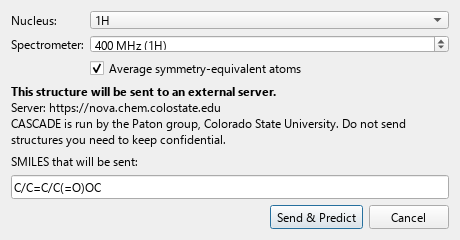
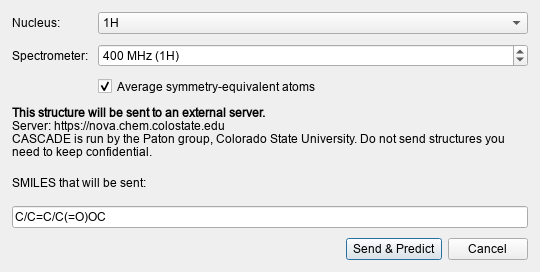
Polish CASCADE result dialogs and refresh screenshots for 2.0.3
Assisted-by: GPT-6.1 Sol

diff --git a/nmr_predictor_cascade/result_dialog.py b/nmr_predictor_cascade/result_dialog.py
@@ -90,7 +90,7 @@ class ResultDialog(QDialog):
         self.result_info = result_data
 
         self.setWindowTitle(f"CASCADE NMR Prediction ({self.nucleus})")
-        self.resize(680, 840)
+        self.resize(940, 880)
         self.setWindowModality(Qt.WindowModality.NonModal)
 
         self._highlight_names = []
@@ -102,15 +102,24 @@ class ResultDialog(QDialog):
 
         layout = QVBoxLayout()
         self.setLayout(layout)
+        layout.setContentsMargins(12, 12, 12, 12)
+        layout.setSpacing(8)
+        summary = f"{self.nucleus} · {len(self.data)} nuclei predicted"
+        n_conformers = result_data.get("n_conformers")
+        if n_conformers:
+            summary += f" · {n_conformers} conformer(s)"
+        summary_label = QLabel(summary)
+        summary_label.setWordWrap(True)
+        layout.addWidget(summary_label)
 
         # -- spectrum ------------------------------------------------------
         self.figure = Figure(figsize=(5, 3.5))
-        self.figure.subplots_adjust(left=0.1, right=0.95, top=0.9, bottom=0.15)
         self.canvas = FigureCanvas(self.figure)
+        self.canvas.setMinimumHeight(240)
         self.toolbar = NavigationToolbar2QT(self.canvas, self)
 
-        title = QLabel("Graph Controls")
-        title.setStyleSheet("font-weight: bold; color: #555;")
+        title = QLabel("Spectrum")
+        title.setStyleSheet("font-weight: bold;")
 
         range_row = QHBoxLayout()
         range_row.addWidget(QLabel("Range (ppm):"))
@@ -164,7 +173,7 @@ class ResultDialog(QDialog):
         layout.addLayout(range_row)
         layout.addLayout(mult_row)
         layout.addLayout(broad_row)
-        layout.addWidget(self.canvas)
+        layout.addWidget(self.canvas, 3)
 
         # -- table ---------------------------------------------------------
         headers = columns_for(self.nucleus)
@@ -174,8 +183,11 @@ class ResultDialog(QDialog):
         self.table.horizontalHeader().setSectionResizeMode(QHeaderView.ResizeMode.Stretch)
         self.table.setSelectionBehavior(QTableWidget.SelectionBehavior.SelectRows)
         self.table.setEditTriggers(QTableWidget.EditTrigger.NoEditTriggers)
-        self.table.setStyleSheet(
-            "QTableWidget::item:selected { background-color: pink; color: black; }"
+        self.table.setAlternatingRowColors(True)
+        self.table.verticalHeader().setDefaultSectionSize(24)
+        self.table.setMinimumHeight(150)
+        self.table.setToolTip(
+            "Confidence is reported by CASCADE; it is not a numerical error bound."
         )
         self.table.setRowCount(len(self.data))
         for row, item in enumerate(self.data):
@@ -186,11 +198,14 @@ class ResultDialog(QDialog):
                     align = Qt.AlignmentFlag.AlignRight | Qt.AlignmentFlag.AlignVCenter
                 cell.setTextAlignment(align)
                 self.table.setItem(row, col, cell)
-        layout.addWidget(self.table)
+        layout.addWidget(self.table, 2)
 
         note = QLabel(
-            "Couplings are rule-based estimates (typical values and a Karplus curve), "
-            "not part of the CASCADE prediction."
+            "Shifts: CASCADE. Couplings: local estimates."
+        )
+        note.setToolTip(
+            "Couplings use typical values and a Karplus curve; "
+            "they are not part of the CASCADE shift prediction."
         )
         note.setWordWrap(True)
         note.setStyleSheet("color: gray; font-size: 10px;")
@@ -219,7 +234,7 @@ class ResultDialog(QDialog):
 
         credit_row = QHBoxLayout()
         credit_row.addStretch()
-        credit = QLabel("POWERED BY CASCADE (Paton group, Colorado State University)")
+        credit = QLabel("CASCADE · Paton group, Colorado State University")
         credit.setStyleSheet("color: gray; font-size: 9px; font-style: italic;")
         credit_row.addWidget(credit)
         layout.addLayout(credit_row)
@@ -280,6 +295,7 @@ class ResultDialog(QDialog):
 
     def plot_spectrum(self, *_args):
         self.figure.clear()
+        self.figure.subplots_adjust(left=0.1, right=0.95, top=0.88, bottom=0.22)
         # figure.clear() destroyed the highlight artists.
         self._graph_line = None
         self._hover_line = None
@@ -309,7 +325,7 @@ class ResultDialog(QDialog):
 
         ax.set_xlabel("Chemical Shift (ppm)")
         ax.set_ylabel("Intensity")
-        ax.set_title(f"{self.nucleus} NMR Predicted Spectrum (CASCADE)")
+        ax.set_title(f"{self.nucleus} NMR Prediction (CASCADE)")
         ax.grid(True, axis="x", linestyle=":", alpha=0.5)
 
         # Keep the selection marker across redraws.

diff --git a/scripts/capture_screenshots.py b/scripts/capture_screenshots.py
@@ -1,0 +1,77 @@
+"""Render the real Qt dialogs with fixed example shifts, without network access."""
+
+import os
+from pathlib import Path
+import sys
+from types import SimpleNamespace
+from unittest.mock import MagicMock
+
+os.environ.setdefault("QT_QPA_PLATFORM", "offscreen")
+os.environ.setdefault("QT_API", "pyside6")
+
+from PySide6.QtGui import QFont, QFontDatabase  # noqa: E402
+from PySide6.QtWidgets import QApplication  # noqa: E402
+from rdkit import Chem  # noqa: E402
+from rdkit.Chem import AllChem  # noqa: E402
+
+ROOT = Path(__file__).resolve().parents[1]
+sys.path.insert(0, str(ROOT))
+
+from nmr_predictor_cascade import coupling, get_default_settings  # noqa: E402
+from nmr_predictor_cascade.result_dialog import ResultDialog  # noqa: E402
+from nmr_predictor_cascade.ui import PredictDialog  # noqa: E402
+
+
+def render():
+    app = QApplication.instance() or QApplication([])
+    font_path = Path(os.environ.get("WINDIR", "C:/Windows")) / "Fonts/arial.ttf"
+    if font_path.is_file():
+        QFontDatabase.addApplicationFont(str(font_path))
+    app.setFont(QFont("Arial", 9))
+    app.setStyle("Fusion")
+    examples = [
+        ("1H", "C/C=C/C(=O)OC", "main.png", None),
+        ("13C", "Cc1ccccc1", "13c.png", [21.43, 137.82, 128.90, 128.33, 125.61, 128.33, 128.90]),
+    ]
+    for nucleus, smiles, filename, shifts in examples:
+        mol = Chem.AddHs(Chem.MolFromSmiles(smiles))
+        AllChem.EmbedMolecule(mol, randomSeed=203)
+        data = []
+        for atom in mol.GetAtoms():
+            if atom.GetSymbol() != ("H" if nucleus == "1H" else "C"):
+                continue
+            parent = atom.GetNeighbors()[0] if nucleus == "1H" else atom
+            ppm = ({0: 2.06, 1: 7.19, 2: 5.88, 6: 3.55}[parent.GetIdx()]
+                   if nucleus == "1H" else shifts[atom.GetIdx()])
+            data.append(dict(idx=atom.GetIdx(), parent_idx=parent.GetIdx(),
+                             atom=atom.GetSymbol(), ppm=ppm, confidence="High"))
+        coupling.annotate_predictions(mol, data, nucleus)
+        window = SimpleNamespace(current_mol=mol, plotter=MagicMock())
+        context = SimpleNamespace(get_main_window=lambda: window)
+        settings = {**get_default_settings(), "show_multiplets": nucleus == "1H"}
+        dialog = ResultDialog(None, dict(nucleus=nucleus, data=data, mol_with_h=mol), context, settings)
+        dialog.auto_scale_chk.setChecked(True)
+        dialog.show()
+        app.processEvents()
+        dialog.canvas.draw()
+        app.processEvents()
+        dialog.grab().save(str(ROOT / "img" / filename))
+        if nucleus == "1H":
+            dialog.auto_scale_chk.setChecked(False)
+            dialog.min_ppm_spin.setValue(5.6)
+            dialog.max_ppm_spin.setValue(7.5)
+            app.processEvents()
+            dialog.canvas.draw()
+            app.processEvents()
+            dialog.canvas.grab().save(str(ROOT / "img" / "multiplets.png"))
+            confirm = PredictDialog(None, settings, smiles)
+            confirm.show()
+            app.processEvents()
+            confirm.grab().save(str(ROOT / "img" / "confirm.png"))
+            confirm.close()
+        dialog.close()
+        app.processEvents()
+
+
+if __name__ == "__main__":
+    render()

diff --git a/nmr_predictor_cascade/ui.py b/nmr_predictor_cascade/ui.py
@@ -33,9 +33,12 @@ class PredictDialog(QDialog):
     def __init__(self, parent, settings, smiles):
         super().__init__(parent)
         self.setWindowTitle("NMR Prediction (CASCADE)")
+        self.setMinimumWidth(540)
         self.settings = dict(settings)
 
         layout = QVBoxLayout(self)
+        layout.setContentsMargins(12, 12, 12, 12)
+        layout.setSpacing(10)
         form = QFormLayout()
 
         self.nucleus_combo = QComboBox()

diff --git a/nmr_predictor_cascade/__init__.py b/nmr_predictor_cascade/__init__.py
@@ -14,7 +14,7 @@ import os
 # --------------------------------------------------------------------------
 
 PLUGIN_NAME = "NMR Predictor (CASCADE)"
-PLUGIN_VERSION = "2.0.2"
+PLUGIN_VERSION = "2.0.3"
 PLUGIN_AUTHOR = "HiroYokoyama"
 PLUGIN_DESCRIPTION = (
     "Predict 1H and 13C NMR shifts with CASCADE, with estimated J couplings and "

diff --git a/README.md b/README.md
@@ -12,8 +12,8 @@ that predicts **1H** and **13C** NMR chemical shifts with
 
 ![1H result for methyl (E)-crotonate](img/main.png)
 
-*MoleditPy with methyl (E)-crotonate, 1H shifts as returned by CASCADE; the selected olefinic
-proton is a dq (J = 17.0, 7.0 Hz).*
+*Result dialog for methyl (E)-crotonate. The olefinic proton at 7.19 ppm is a dq
+(J = 17.0, 7.0 Hz). Screenshots use fixed example shifts to illustrate the UI.*
 
 > **This plugin sends your structure to an external server.**
 > The molecule is sent as a SMILES string to the CASCADE web server run by the
@@ -56,6 +56,10 @@ proton is a dq (J = 17.0, 7.0 Hz).*
 
 The choices are remembered in `settings.json` next to the plugin.
 
+Version 2.0.3 gives the result dialog more room for table columns, alternating
+row shading and a compact result summary. The coupling explanation is available
+in a tooltip and About; the footer identifies CASCADE and its authors.
+
 ![13C result for toluene](img/13c.png)
 
 *Toluene, 13C: carbon types and 1J(CH) next to the CASCADE shifts.*
@@ -91,7 +95,7 @@ step.
 
 ## Requirements
 
-* MoleditPy 4.x (provides PySide6, RDKit, PyVista)
+* MoleditPy 5.x (provides PySide6, RDKit, PyVista)
 * `matplotlib`
 * Internet access to `nova.chem.colostate.edu`
 
